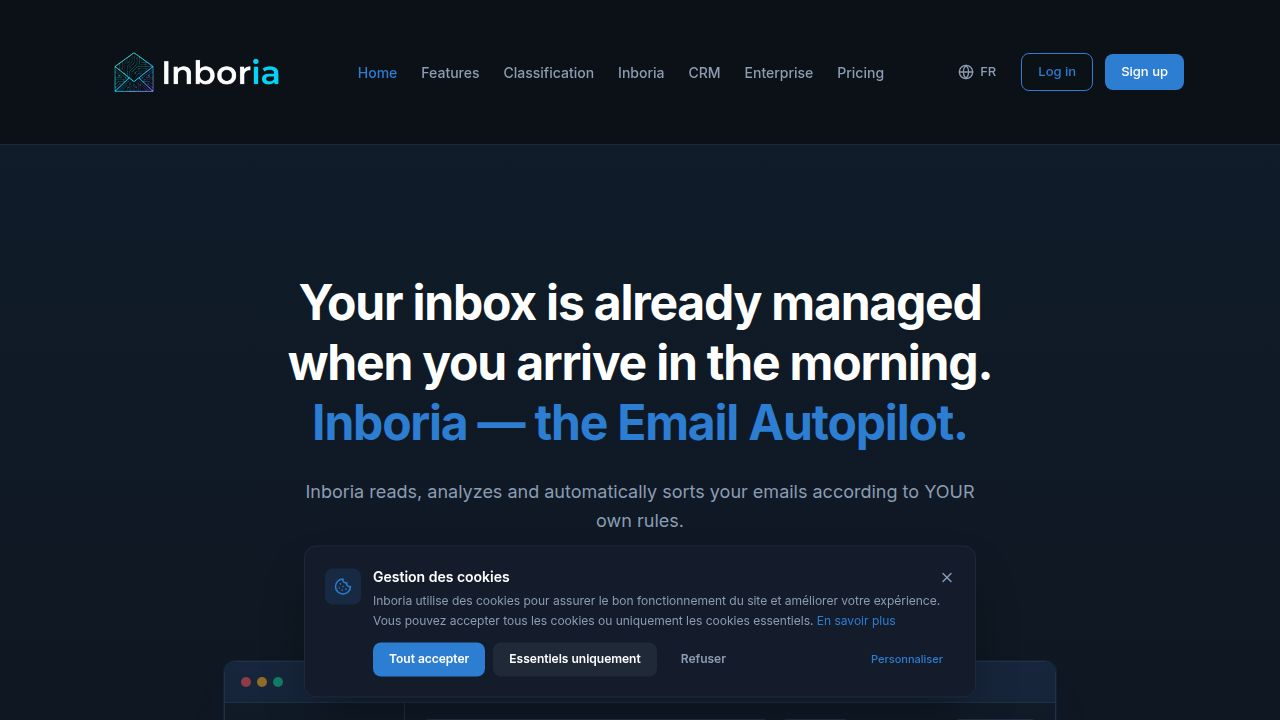
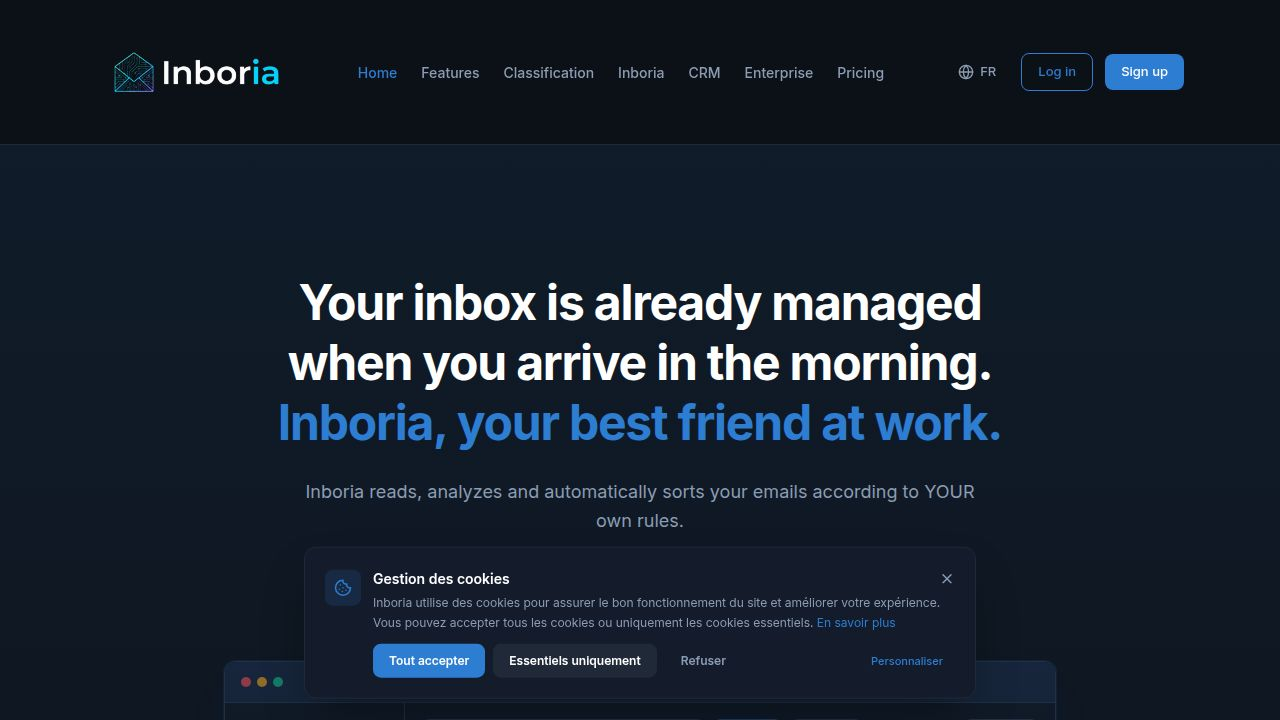
Task #175: Retirer le compteur de crédits IA de la sidebar
Le bloc UI affichait un compteur progressif type "X/Y crédits" dans la
sidebar, ce qui suggerait à tort une limite stricte. Le modèle de
facturation est en réalité un reset mensuel + pay-as-you-go au-delà
(Scénario A confirmé par l'utilisateur), donc cette barre créait de la
confusion.

Changements :
- artifacts/ncv-mail/src/components/layout/dashboard-layout.tsx :
  retiré le bloc UI sidebar (ancien lignes 189-213) et la variable
  usagePercent (orpheline). totalUsed conservé car utilisé par
  isTrialExhausted (blocage essai gratuit).
- 5 locales (fr/en/nl/de/es) : retiré sidebar.aiCredits,
  sidebar.creditsBreakdownMails, sidebar.creditsBreakdownAi
  et leurs variantes _one. Les doublons orphelins dans la section
  subscription (lignes ~1254 en/de/es/nl) volontairement laissés —
  hors scope.
- artifacts/api-server/src/routes/paddle.ts : retiré le plan fantôme
  "plus" de PLAN_QUOTAS et PRICE_MAP (jamais vendu, n'existait que
  dans le code).
- artifacts/api-server/src/routes/integrations.ts : retiré "plus" de
  la liste requireProPlan() et mis à jour les 2 commentaires CRM
  pour refléter la liste réelle des plans.

Vérifié en prod : 0 utilisateur en plan='plus' (Supabase).

Hors scope (intentionnel) :
- credits.ts inchangé (Scénario A = code actuel correct)
- page Abonnement non touchée (le user voit encore son usage là-bas)
- pas de notification 80%/100% (pay-as-you-go = pas de blocage)

Architect review : PASS.

Changed region(s): [[0.25, 0.7944, 0.75, 0.9472], [0.2188, 0.55, 0.7812, 0.6417], [0.6875, 0.8861, 0.7188, 0.9472]]

diff --git a/artifacts/ncv-mail/src/components/layout/dashboard-layout.tsx b/artifacts/ncv-mail/src/components/layout/dashboard-layout.tsx
@@ -140,11 +140,6 @@ export function DashboardLayout({ children }: { children: React.ReactNode }) {
     setLocation("/login");
   };
 
-  const usagePercent = Math.min(
-    100,
-    (totalUsed / Math.max(1, (user as any).emailsQuota)) * 100
-  );
-
   const SidebarContent = () => (
     <div className="flex h-full flex-col">
       <div className="flex h-28 shrink-0 flex-col items-center justify-center px-4 border-b border-[#1f2937]">
@@ -186,31 +181,6 @@ export function DashboardLayout({ children }: { children: React.ReactNode }) {
         })}
       </nav>
 
-      <div className="p-2.5 mt-auto border-t border-[#1f2937]">
-        <div className="px-2.5 py-2 mb-2">
-          <div className="flex justify-between items-center mb-1.5">
-            <span className="text-[10px] font-medium text-[#8b9cb3] uppercase tracking-wider">
-              {t("sidebar.aiCredits")}
-            </span>
-            <span className="text-[10px] font-medium text-white">
-              {totalUsed}/{(user as any).emailsQuota}
-            </span>
-          </div>
-          <div className="w-full h-1 bg-white/10 rounded-full overflow-hidden">
-            <div
-              className={cn(
-                "h-full rounded-full transition-all",
-                usagePercent >= 90 ? "bg-red-500" : usagePercent >= 80 ? "bg-amber-500" : "bg-primary"
-              )}
-              style={{ width: `${usagePercent}%` }}
-            />
-          </div>
-          <div className="mt-1 text-[9px] text-[#6b7d96] flex justify-between">
-            <span>{t("sidebar.creditsBreakdownMails", { count: (user as any).emailsUsed || 0 })}</span>
-            <span>{t("sidebar.creditsBreakdownAi", { count: (user as any).aiCreditsUsed || 0 })}</span>
-          </div>
-        </div>
-      </div>
     </div>
   );
 

diff --git a/artifacts/api-server/src/routes/integrations.ts b/artifacts/api-server/src/routes/integrations.ts
@@ -156,7 +156,7 @@ async function requireProPlan(userId: string): Promise<boolean> {
     .eq("id", userId)
     .single();
   if (!profile) return false;
-  return ["pro", "business", "plus"].includes(profile.plan);
+  return ["pro", "business"].includes(profile.plan);
 }
 
 router.get("/integrations", requireAuth, async (req, res): Promise<void> => {
@@ -192,7 +192,7 @@ router.get("/integrations/hubspot/connect", requireAuth, async (req, res): Promi
     res.status(400).json({ error: "HubSpot integration not configured" });
     return;
   }
-  // CRM accessible a tous les plans (Free, Solo, Pro, Business, Plus)
+  // CRM accessible a tous les plans (Free, Solo, Pro, Business)
   const state = createSignedState(req.userId!);
   const params = new URLSearchParams({
     client_id: HUBSPOT_CLIENT_ID,
@@ -677,7 +677,7 @@ router.get("/integrations/pipedrive/connect", requireAuth, async (req, res): Pro
     res.status(400).json({ error: "Pipedrive integration not configured" });
     return;
   }
-  // CRM accessible a tous les plans (Free, Solo, Pro, Business, Plus)
+  // CRM accessible a tous les plans (Free, Solo, Pro, Business)
   const state = createSignedState(req.userId!);
   const params = new URLSearchParams({
     client_id: PIPEDRIVE_CLIENT_ID,

diff --git a/artifacts/api-server/src/routes/paddle.ts b/artifacts/api-server/src/routes/paddle.ts
@@ -17,14 +17,12 @@ const PLAN_QUOTAS: Record<string, number> = {
   essai: 100,
   solo: 3000,
   pro: 10000,
-  plus: 15000,
   business: 10000,
 };
 
 const PRICE_MAP: Record<string, string> = {
   solo: process.env["PADDLE_PRICE_SOLO"] || "",
   pro: process.env["PADDLE_PRICE_PRO"] || "",
-  plus: process.env["PADDLE_PRICE_PLUS"] || "",
   business: process.env["PADDLE_PRICE_BUSINESS"] || "",
 };
 